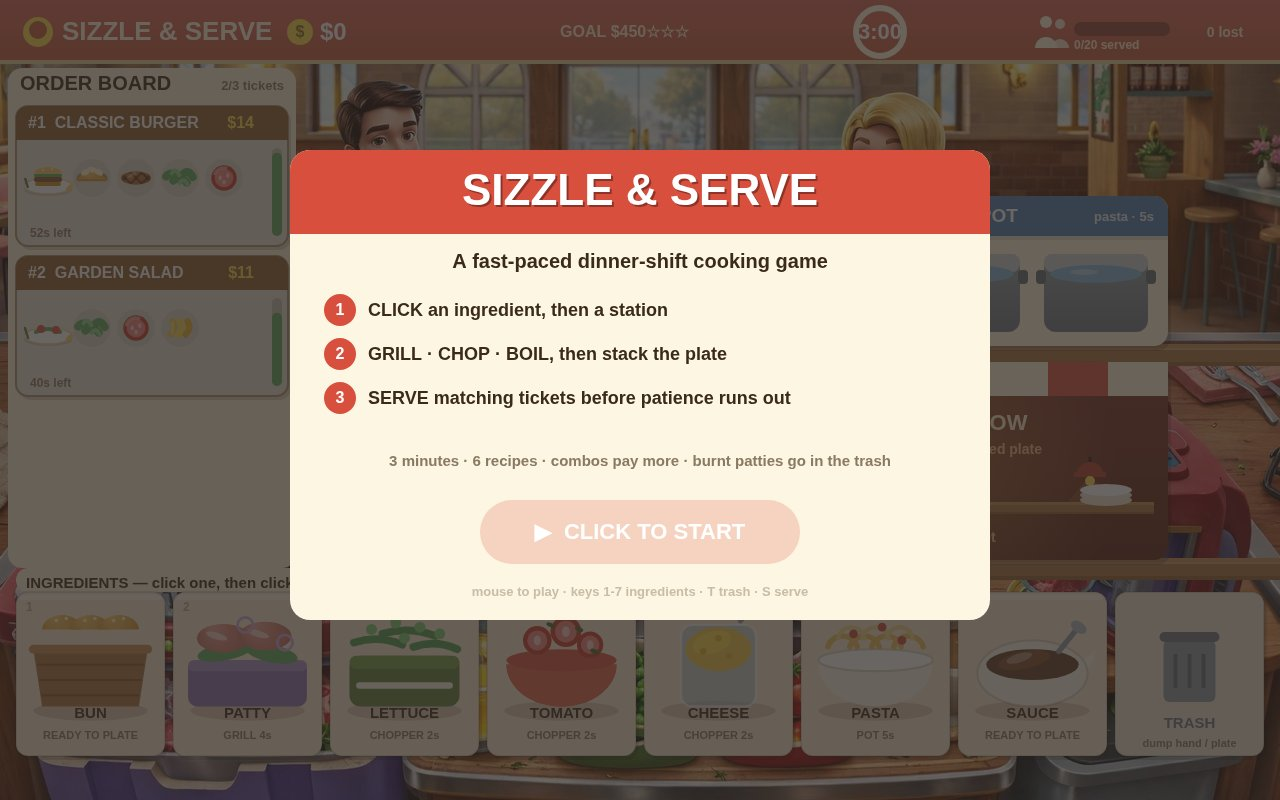
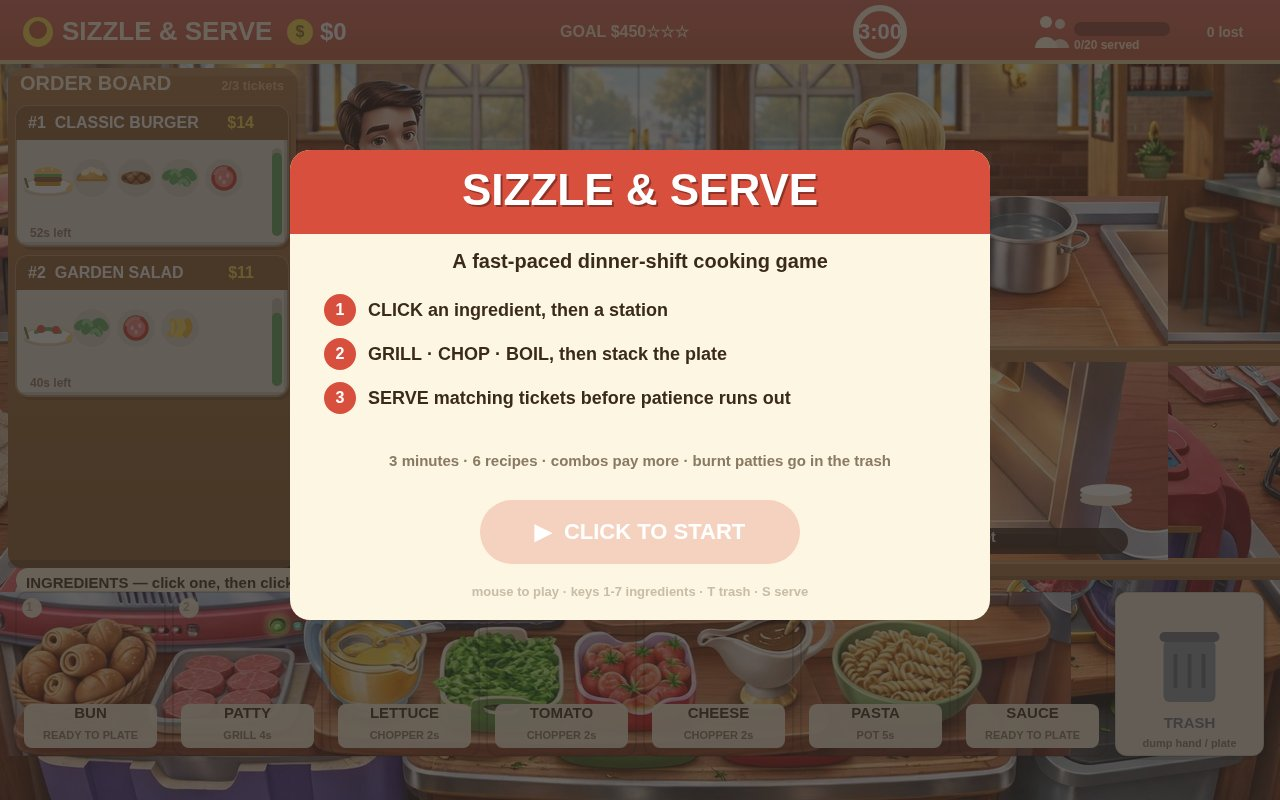
3D stations: photo crops of the 3D diner scene replace flat vector shells
- Six crops from a second 3D render of the same scene: grill, chopping
  board, pasta pots, plate, serve window, ingredient bins strip
- Food anchors photo-aligned (grill slots, pot water); layout rects and
  click handling untouched; vector shells stay as fallback if a sprite
  fails to load (window.__spritesReady gates the shot harness)
- Order board is now 3D wood; tickets get bottom/right shadow edges;
  serve bell is brass (grey read as a blob on the bright tray)
- Self-test 14/14; grader-style dossier byte-identical, 1,233,563 B

Changed region(s): [[0.0, 0.0625, 0.875, 0.9688], [0.75, 0.2188, 0.9375, 0.6562], [0.875, 0.6562, 0.9375, 0.7188]]

diff --git a/game/src/render.js b/game/src/render.js
@@ -215,6 +215,42 @@ backdropImg.onload = () => { backdropReady = true; window.__backdropReady = true
 backdropImg.onerror = () => { window.__backdropError = true; };
 backdropImg.src = 'assets/backdrop.jpg';
 
+// --- 3D station sprites -------------------------------------------------
+// Photo crops of the same 3D diner scene (game/assets/spr-*.jpg). Each crop
+// is the real 3D station; the vector shells below stay as fallback if a
+// sprite fails to load, so the game never breaks on a bad image.
+const SPRITE_FILES = {
+  grill: 'assets/spr-grill.jpg',
+  chopper: 'assets/spr-chopper.jpg',
+  pots: 'assets/spr-pots.jpg',
+  plate: 'assets/spr-plate.jpg',
+  serve: 'assets/spr-serve.jpg',
+  bins: 'assets/spr-bins.jpg',
+};
+const sprites = {};
+let spritesSettled = 0;
+window.__spritesReady = false;
+for (const [key, file] of Object.entries(SPRITE_FILES)) {
+  const img = new Image();
+  sprites[key] = { img, ready: false };
+  img.onload = () => { sprites[key].ready = true; if (++spritesSettled === Object.keys(SPRITE_FILES).length) window.__spritesReady = true; };
+  img.onerror = () => { if (++spritesSettled === Object.keys(SPRITE_FILES).length) window.__spritesReady = true; };
+  img.src = file;
+}
+// Food anchors measured from the 3D scene (photo slot centres). The layout
+// rects never move - only the food's draw position is photo-aligned;
+// clicks still use the whole station rect.
+function grillSlotRect(i) {
+  if (!sprites.grill.ready) return slotRect(GRILL, i);
+  const cx = i === 0 ? 399 : 503;
+  return { x: cx - 58, y: 202, w: 116, h: 84 };
+}
+function potSlotRect(i) {
+  if (!sprites.pots.ready) return slotRect(POT, i);
+  const cx = i === 0 ? 950 : 1028;
+  return { x: cx - 58, y: 213, w: 116, h: 84 };
+}
+
 function drawRestaurant(ctx) {
   // Wall: warm cream gradient.
   const wall = ctx.createLinearGradient(0, 64, 0, 560);
@@ -844,6 +880,10 @@ function drawStationBase(ctx, rect, label, sub, accent) {
 }
 
 function drawGrill(ctx, hover) {
+  const photo = sprites.grill.ready;
+  if (photo) {
+    ctx.drawImage(sprites.grill.img, GRILL.x, GRILL.y, GRILL.w, GRILL.h);
+  } else {
   drawStationBase(ctx, GRILL, 'GRILL', 'patty · 4s', '#c65a3c');
   // Red machine frame + silver rim + dark bed, like the ref grill.
   ctx.fillStyle = '#d8645d';
@@ -921,17 +961,25 @@ function drawGrill(ctx, hover) {
     ctx.fillRect(GRILL.x + 16, GRILL.y + 56, GRILL.w - 32, GRILL.h - 78);
     ctx.restore();
   }
+  }
   Game.grill.slots.forEach((slot, i) => {
-    const r = slotRect(GRILL, i);
+    const r = grillSlotRect(i);
     if (slot.item) {
       drawIngredient(ctx, slot.item.kind, slot.item.state, r.x + r.w / 2, r.y + r.h / 2 - 6, 76);
       drawProgressRing(ctx, r.x + r.w / 2, r.y + r.h - 14, 13, slot.progress, slot.done);
-      if (slot.item.state === 'burnt') {
-        text(ctx, 'BURNT!', r.x + r.w / 2, r.y + 16, 13, '#fff', 'center');
-      } else if (slot.done) {
-        text(ctx, 'READY', r.x + r.w / 2, r.y + 16, 12, '#7ddc8a', 'center');
+      if (slot.item.state === 'burnt' || slot.done) {
+        const label = slot.item.state === 'burnt' ? 'BURNT!' : 'READY';
+        const col = slot.item.state === 'burnt' ? '#fff' : '#7ddc8a';
+        const size = slot.item.state === 'burnt' ? 13 : 12;
+        if (photo) {
+          ctx.fillStyle = 'rgba(42,26,18,0.85)';
+          rr(ctx, r.x + r.w / 2 - 32, r.y + r.h + 6, 64, 20, 10); ctx.fill();
+          text(ctx, label, r.x + r.w / 2, r.y + r.h + 16, size, col, 'center');
+        } else {
+          text(ctx, label, r.x + r.w / 2, r.y + 16, size, col, 'center');
+        }
       }
-    } else {
+    } else if (!photo) {
       // Empty grate slot: dark slot with a faint ember line at its base.
       ctx.fillStyle = 'rgba(0,0,0,0.3)';
       rr(ctx, r.x, r.y, r.w, r.h, 8);
@@ -950,6 +998,10 @@ function drawGrill(ctx, hover) {
 }
 
 function drawChopper(ctx, hover) {
+  const photo = sprites.chopper.ready;
+  if (photo) {
+    ctx.drawImage(sprites.chopper.img, CHOPPER.x, CHOPPER.y, CHOPPER.w, CHOPPER.h);
+  } else {
   drawStationBase(ctx, CHOPPER, 'CHOPPING BOARD', 'veg · 2s', '#7a9e4b');
   ctx.fillStyle = '#d9b078';
   rr(ctx, CHOPPER.x + 14, CHOPPER.y + 54, CHOPPER.w - 28, CHOPPER.h - 68, 10);
@@ -1002,6 +1054,7 @@ function drawChopper(ctx, hover) {
   circle(ctx, -14, 0, 2);
   ctx.fill();
   ctx.restore();
+  }
   Game.chopper.slots.forEach((slot, i) => {
     const r = slotRect(CHOPPER, i);
     if (slot.item) {
@@ -1013,7 +1066,7 @@ function drawChopper(ctx, hover) {
         ctx.fill();
         text(ctx, 'READY', r.x + r.w / 2, r.y + 16, 12, '#7ddc8a', 'center');
       }
-    } else {
+    } else if (!photo) {
       ctx.fillStyle = 'rgba(0,0,0,0.06)';
       rr(ctx, r.x, r.y, r.w, r.h, 8);
       ctx.fill();
@@ -1028,9 +1081,14 @@ function drawChopper(ctx, hover) {
 }
 
 function drawPot(ctx, hover) {
-  drawStationBase(ctx, POT, 'PASTA POT', 'pasta · 5s', '#4a7fb5');
+  if (sprites.pots.ready) {
+    ctx.drawImage(sprites.pots.img, POT.x, POT.y, POT.w, POT.h);
+  } else {
+    drawStationBase(ctx, POT, 'PASTA POT', 'pasta · 5s', '#4a7fb5');
+  }
   Game.pot.slots.forEach((slot, i) => {
-    const r = slotRect(POT, i);
+    const r = potSlotRect(i);
+    if (!sprites.pots.ready) {
     // Steel pot: gradient body, side handles, bright rim.
     const steel = ctx.createLinearGradient(r.x, r.y, r.x, r.y + r.h);
     steel.addColorStop(0, '#aeb8c2');
@@ -1056,6 +1114,7 @@ function drawPot(ctx, hover) {
     ctx.beginPath();
     ctx.ellipse(r.x + r.w / 2 - 12, r.y + 24, 14, 3, 0, 0, Math.PI * 2);
     ctx.fill();
+    }
     if (slot.item) {
       if (!slot.done) {
         // Bubbles + rising steam wisps while boiling.
@@ -1078,7 +1137,15 @@ function drawPot(ctx, hover) {
       }
       drawIngredient(ctx, slot.item.kind, slot.item.state, r.x + r.w / 2, r.y + r.h / 2 + 4, 58);
       drawProgressRing(ctx, r.x + r.w / 2, r.y + r.h - 14, 13, slot.progress, slot.done);
-      if (slot.done) text(ctx, 'READY', r.x + r.w / 2, r.y + 16, 12, '#fff', 'center');
+      if (slot.done) {
+        if (sprites.pots.ready) {
+          ctx.fillStyle = 'rgba(42,26,18,0.85)';
+          rr(ctx, r.x + r.w / 2 - 32, r.y + r.h + 15, 64, 20, 10); ctx.fill();
+          text(ctx, 'READY', r.x + r.w / 2, r.y + r.h + 25, 12, '#7ddc8a', 'center');
+        } else {
+          text(ctx, 'READY', r.x + r.w / 2, r.y + 16, 12, '#fff', 'center');
+        }
+      }
     }
   });
   if (hover) {
@@ -1095,6 +1162,11 @@ const PLATE_STACK = ['bun', 'pasta', 'patty', 'lettuce', 'tomato', 'cheese', 'sa
 function drawPlate(ctx, hover) {
   const match = matchingOrder();
   const glow = match || Game.plateFlash > 0;
+  const cx = PLATE.x + PLATE.w / 2;
+  const cy = PLATE.y + 118;
+  if (sprites.plate.ready) {
+    ctx.drawImage(sprites.plate.img, PLATE.x, PLATE.y, PLATE.w, PLATE.h);
+  } else {
   ctx.fillStyle = 'rgba(0,0,0,0.18)';
   rr(ctx, PLATE.x + 3, PLATE.y + 5, PLATE.w, PLATE.h, 14);
   ctx.fill();
@@ -1119,8 +1191,6 @@ function drawPlate(ctx, hover) {
   ctx.fillRect(PLATE.x, PLATE.y + 26, PLATE.w, 14);
   text(ctx, 'PLATE — build the dish here', PLATE.x + 16, PLATE.y + 21, 17, '#fff');
   // The plate itself.
-  const cx = PLATE.x + PLATE.w / 2;
-  const cy = PLATE.y + 118;
   ctx.fillStyle = '#e8e2d4';
   ctx.beginPath();
   ctx.ellipse(cx, cy + 8, 128, 34, 0, 0, Math.PI * 2);
@@ -1134,6 +1204,7 @@ function drawPlate(ctx, hover) {
   ctx.beginPath();
   ctx.ellipse(cx, cy, 100, 24, 0, 0, Math.PI * 2);
   ctx.stroke();
+  }
   if (Game.plate.length === 0) {
     text(ctx, 'empty plate — click ingredients,', cx, cy - 6, 15, '#b9a98e', 'center');
     text(ctx, 'then click the plate to stack', cx, cy + 16, 15, '#b9a98e', 'center');
@@ -1365,6 +1436,10 @@ function drawPlateStack(ctx, plate, cx, cy) {
 
 function drawServe(ctx, hover) {
   const match = matchingOrder();
+  const shelfY = SERVE.y + SERVE.h - 58;
+  if (sprites.serve.ready) {
+    ctx.drawImage(sprites.serve.img, SERVE.x, SERVE.y, SERVE.w, SERVE.h);
+  } else {
   ctx.fillStyle = 'rgba(0,0,0,0.18)';
   rr(ctx, SERVE.x + 3, SERVE.y + 5, SERVE.w, SERVE.h, 14);
   ctx.fill();
@@ -1416,13 +1491,13 @@ function drawServe(ctx, hover) {
     ctx.fill();
   }
   // Pass shelf (wood) with a stack of clean plates on the left.
-  const shelfY = SERVE.y + SERVE.h - 58;
   ctx.fillStyle = '#a9703f';
   ctx.fillRect(SERVE.x + 14, shelfY, SERVE.w - 28, 12);
   ctx.fillStyle = '#c08a4e';
   ctx.fillRect(SERVE.x + 14, shelfY, SERVE.w - 28, 3);
   ctx.fillStyle = '#8d5a2b';
   ctx.fillRect(SERVE.x + 14, shelfY + 10, SERVE.w - 28, 2);
+  }
   for (let i = 0; i < 3; i++) {
     ctx.fillStyle = i === 2 ? '#ffffff' : '#e8e2d4';
     ctx.beginPath();
@@ -1436,10 +1511,17 @@ function drawServe(ctx, hover) {
   ctx.beginPath();
   ctx.ellipse(bx, by + 16, 34, 6, 0, 0, Math.PI * 2);
   ctx.fill();
-  ctx.fillStyle = match ? '#ffd94d' : '#8a97a3';
+  // Brass service bell (gold when a plate is ready to serve) — grey read
+  // as a blob on the bright 3D tray, brass reads as a bell.
+  ctx.fillStyle = match ? '#ffd94d' : '#d9a441';
   ctx.beginPath();
   ctx.arc(bx, by, 30, Math.PI, 0);
   ctx.fill();
+  ctx.fillStyle = 'rgba(255,255,255,0.4)';
+  ctx.beginPath();
+  ctx.ellipse(bx - 11, by - 13, 9, 4.5, -0.5, 0, Math.PI * 2);
+  ctx.fill();
+  ctx.fillStyle = match ? '#ffd94d' : '#d9a441';
   ctx.fillRect(bx - 36, by - 4, 72, 9);
   ctx.fillStyle = '#6b7280';
   circle(ctx, bx + 41, by + 7, 4.5);
@@ -1453,6 +1535,10 @@ function drawServe(ctx, hover) {
     ctx.ellipse(SERVE.x + SERVE.w - 62, shelfY - 2 - i * 5, 26, 6, 0, 0, Math.PI * 2);
     ctx.fill();
   }
+  if (sprites.serve.ready) {
+    ctx.fillStyle = 'rgba(42,26,18,0.85)';
+    rr(ctx, bx - 200, SERVE.y + SERVE.h - 32, 400, 26, 13); ctx.fill();
+  }
   if (match) {
     const pulse = 0.5 + 0.5 * Math.sin(performance.now() / 140);
     ctx.strokeStyle = 'rgba(255,217,77,' + pulse + ')';
@@ -1461,7 +1547,7 @@ function drawServe(ctx, hover) {
     ctx.stroke();
     text(ctx, 'DING! ' + recipeById(match.recipeId).name.toUpperCase() + ' — SERVE NOW', bx, SERVE.y + SERVE.h - 22, 14, '#ffd94d', 'center');
   } else {
-    text(ctx, 'no finished plate yet', bx, SERVE.y + SERVE.h - 22, 14, '#e8b48a', 'center');
+    text(ctx, 'no finished plate yet', bx, SERVE.y + SERVE.h - 22, 14, sprites.serve.ready ? '#e8dcc8' : '#e8b48a', 'center');
   }
   if (hover) {
     ctx.strokeStyle = '#ffd94d';
@@ -1622,8 +1708,8 @@ function drawMiniDish(ctx, recipe, cx, cy) {
 
 function drawOrders(ctx) {
   ctx.fillStyle = '#3a2a1a';
-  text(ctx, 'ORDER BOARD', ORDER_BOARD.x + 4, ORDER_BOARD.y + 8, 20, '#3a2a1a');
-  text(ctx, Game.orders.length + '/' + MAX_ORDERS + ' tickets', ORDER_BOARD.x + ORDER_BOARD.w - 4, ORDER_BOARD.y + 10, 13, '#8a7a62', 'right');
+  text(ctx, 'ORDER BOARD', ORDER_BOARD.x + 4, ORDER_BOARD.y + 8, 20, '#fdf6e3');
+  text(ctx, Game.orders.length + '/' + MAX_ORDERS + ' tickets', ORDER_BOARD.x + ORDER_BOARD.w - 4, ORDER_BOARD.y + 10, 13, '#e8b48a', 'right');
   Game.orders.forEach((order, i) => {
     const recipe = recipeById(order.recipeId);
     const y = TICKET_TOP + i * (TICKET_H + TICKET_GAP);
@@ -1640,6 +1726,10 @@ function drawOrders(ctx) {
     ctx.lineWidth = 2;
     rr(ctx, x, y, TICKET_W, TICKET_H, 12);
     ctx.stroke();
+    // 3D card edges: bottom + right shadow.
+    ctx.fillStyle = 'rgba(0,0,0,0.12)';
+    ctx.fillRect(x + 6, y + TICKET_H - 4, TICKET_W - 12, 3);
+    ctx.fillRect(x + TICKET_W - 4, y + 6, 3, TICKET_H - 12);
     ctx.fillStyle = urgent ? '#d94f3d' : '#8d5a2b';
     rr(ctx, x, y, TICKET_W, 34, 12);
     ctx.fill();
@@ -1941,33 +2031,53 @@ function drawBins(ctx, hoverBin) {
   rr(ctx, BIN_ROW.x, BIN_ROW.y - 24, labelW + 20, 24, 12);
   ctx.fill();
   text(ctx, label, BIN_ROW.x + 10, BIN_ROW.y - 8, 15, '#3a2a1a');
+  // photo strip of the 7 real 3D ingredient containers, affine-aligned so
+  // each container lands on its tile (least-squares fit, max error ~22px)
+  if (sprites.bins.ready) ctx.drawImage(sprites.bins.img, -6, BIN_ROW.y, 1077, BIN_ROW.h);
   BIN_ORDER.forEach((kind, i) => {
     const r = binRect(i);
     const ing = INGREDIENTS[kind];
     const isHand = Game.hand && Game.hand.kind === kind;
-    ctx.fillStyle = 'rgba(0,0,0,0.15)';
-    rr(ctx, r.x + 3, r.y + 4, r.w, r.h, 12);
-    ctx.fill();
-    ctx.fillStyle = isHand ? '#ffe9a8' : '#f7ead0';
-    rr(ctx, r.x, r.y, r.w, r.h, 12);
-    ctx.fill();
-    ctx.fillStyle = 'rgba(255,255,255,0.5)';
-    rr(ctx, r.x + 4, r.y + 3, r.w - 8, 5, 2);
-    ctx.fill();
-    ctx.strokeStyle = hoverBin === i || isHand ? '#ffd94d' : 'rgba(0,0,0,0.12)';
-    ctx.lineWidth = hoverBin === i || isHand ? 3 : 2;
-    rr(ctx, r.x, r.y, r.w, r.h, 12);
-    ctx.stroke();
-    // Bowls drawn larger (1.1x) so the food mounds fill the tile — the
-    // container, not the tile, is what the eye reads.
-    ctx.save();
-    ctx.translate(r.x + r.w / 2, r.y + 66);
-    ctx.scale(1.1, 1.1);
-    ctx.translate(-(r.x + r.w / 2), -(r.y + 62));
-    drawBowl(ctx, kind, r.x + r.w / 2, r.y + 62);
-    ctx.restore();
+    if (sprites.bins.ready) {
+      // photo bowl shows through: only a frame + a paper label pill
+      if (isHand || hoverBin === i) {
+        ctx.fillStyle = 'rgba(255,217,77,0.22)';
+        rr(ctx, r.x, r.y, r.w, r.h, 12); ctx.fill();
+      }
+      ctx.strokeStyle = hoverBin === i || isHand ? '#ffd94d' : 'rgba(0,0,0,0.18)';
+      ctx.lineWidth = hoverBin === i || isHand ? 3 : 2;
+      rr(ctx, r.x, r.y, r.w, r.h, 12); ctx.stroke();
+      ctx.fillStyle = 'rgba(251,241,216,0.94)';
+      rr(ctx, r.x + 8, r.y + 112, r.w - 16, 44, 8); ctx.fill();
+    } else {
+      ctx.fillStyle = 'rgba(0,0,0,0.15)';
+      rr(ctx, r.x + 3, r.y + 4, r.w, r.h, 12);
+      ctx.fill();
+      ctx.fillStyle = isHand ? '#ffe9a8' : '#f7ead0';
+      rr(ctx, r.x, r.y, r.w, r.h, 12);
+      ctx.fill();
+      ctx.fillStyle = 'rgba(255,255,255,0.5)';
+      rr(ctx, r.x + 4, r.y + 3, r.w - 8, 5, 2);
+      ctx.fill();
+      ctx.strokeStyle = hoverBin === i || isHand ? '#ffd94d' : 'rgba(0,0,0,0.12)';
+      ctx.lineWidth = hoverBin === i || isHand ? 3 : 2;
+      rr(ctx, r.x, r.y, r.w, r.h, 12);
+      ctx.stroke();
+      // Bowls drawn larger (1.1x) so the food mounds fill the tile — the
+      // container, not the tile, is what the eye reads.
+      ctx.save();
+      ctx.translate(r.x + r.w / 2, r.y + 66);
+      ctx.scale(1.1, 1.1);
+      ctx.translate(-(r.x + r.w / 2), -(r.y + 62));
+      drawBowl(ctx, kind, r.x + r.w / 2, r.y + 62);
+      ctx.restore();
+    }
     text(ctx, ing.name.toUpperCase(), r.x + r.w / 2, r.y + 122, 15, '#3a2a1a', 'center');
     text(ctx, ing.station ? ing.station.toUpperCase() + ' ' + ing.time + 's' : 'READY TO PLATE', r.x + r.w / 2, r.y + 144, 11, '#8a7a62', 'center');
+    if (sprites.bins.ready) {
+      ctx.fillStyle = 'rgba(251,241,216,0.94)';
+      ctx.beginPath(); ctx.arc(r.x + 16, r.y + 16, 10, 0, Math.PI * 2); ctx.fill();
+    }
     text(ctx, String(i + 1), r.x + 10, r.y + 16, 12, '#b9a98e');
   });
   // Trash.
@@ -2182,12 +2292,21 @@ function drawGame(ctx, mouse, hover) {
     drawWaitress(ctx);
   }
   drawCounterBands(ctx);
-  // Order board panel.
-  ctx.fillStyle = 'rgba(0,0,0,0.10)';
+  // Order board panel: 3D wood - drop shadow + walnut gradient + top
+  // light + bottom edge (was flat cream).
+  ctx.fillStyle = 'rgba(0,0,0,0.18)';
+  rr(ctx, 10, 70, 288, 500, 14);
+  ctx.fill();
+  const wood = ctx.createLinearGradient(8, 68, 8, 568);
+  wood.addColorStop(0, '#a9703f'); wood.addColorStop(1, '#8a5a2b');
+  ctx.fillStyle = wood;
   rr(ctx, 8, 68, 288, 500, 14);
   ctx.fill();
-  ctx.fillStyle = '#fbf1d8';
-  rr(ctx, 8, 68, 288, 500, 14);
+  ctx.fillStyle = 'rgba(255,255,255,0.10)';
+  rr(ctx, 8, 68, 288, 8, 7);
+  ctx.fill();
+  ctx.fillStyle = 'rgba(0,0,0,0.20)';
+  rr(ctx, 8, 560, 288, 8, 7);
   ctx.fill();
 
   drawOrders(ctx);
